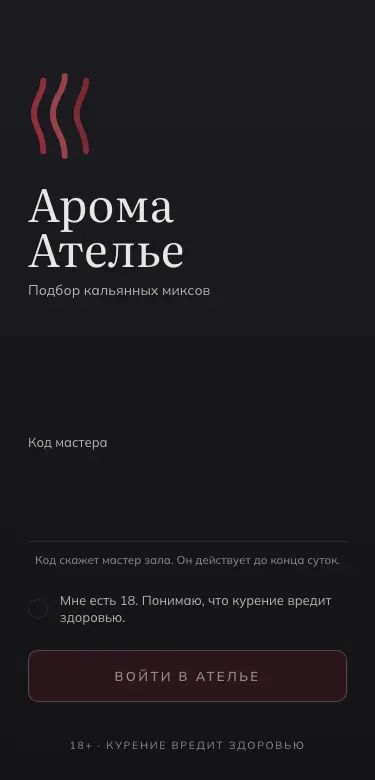
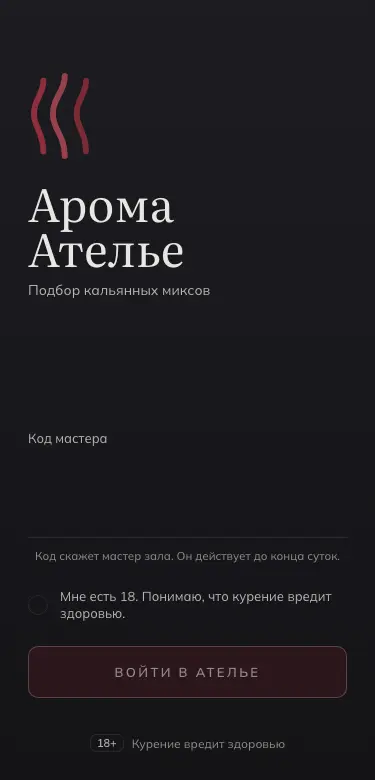
docs(design): мокап #348, раунд 2 — строка 18+, «Изменить вкусы», рилс-афиша
Замечания владельца к мокапу «было / стало»:

- Строка 18+ без middot и капса: бейдж «18+» и рядом «Курение вредит
  здоровью» обычным текстом. Слова предупреждения не менялись; в каноне
  у middot больше нет исключений.
- «Изменить вкусы» больше не занимает строку над героем Подбора. Два
  варианта на выбор: A — тихая ссылка в строке «Тоже подходят»
  (#shot=recs), B — значок SlidersHorizontal в шапке (#shot=recs-b).
- Рилс снова афиша, как в проде (#314): название и описание по центру
  сцены, внизу рейтинг, сердечко, состав и кнопки.

diff --git a/design/design_handoff_ui_deslop/guest-board.jsx b/design/design_handoff_ui_deslop/guest-board.jsx
@@ -48,7 +48,7 @@ function Nav({ value }) {
   );
 }
 
-function Topbar({ masterCard = false, children }) {
+function Topbar({ masterCard = false, editTastes = false, children }) {
   return (
     <header className="topbar">
       <div className="topbar-main-row">
@@ -56,6 +56,11 @@ function Topbar({ masterCard = false, children }) {
           <img className="brand-mark" src={MARK} alt="" aria-hidden />
           <span className="brand">Арома Ателье</span>
         </button>
+        {editTastes ? (
+          <button type="button" className="topbar-icon-btn" aria-label="Изменить вкусы" title="Изменить вкусы">
+            <window.Icon name="SlidersHorizontal" size={20} />
+          </button>
+        ) : null}
         {masterCard ? (
           <button type="button" className="topbar-icon-btn topbar-master-card" aria-label="Карточка для мастера" title="Карточка для мастера">
             <window.Icon name="ClipboardList" size={20} />
@@ -100,16 +105,16 @@ function OnboardingPhone({ step, initialProfiles, initialFlavors = [] }) {
   );
 }
 
-function RecsPhone({ sheetMix }) {
+function RecsPhone({ sheetMix, editTastes = 'section' }) {
   const [sheet, setSheet] = React.useState(sheetMix ? { mix: sheetMix, source: 'recommendations' } : null);
   const [rating, setRating] = React.useState(0);
   const [fav, setFav] = React.useState(false);
   return (
     <Phone>
-      <Topbar />
+      <Topbar editTastes={editTastes === 'topbar'} />
       <main className="content">
         <window.ReelStrip mixes={FEED} onOpen={noop} />
-        <window.RecommendationsScreen mixes={RECS} onOpen={(mix, source) => setSheet({ mix, source })} onChoose={noop} onOpenOnboarding={noop} onOpenCatalog={noop} onOpenMixer={noop} />
+        <window.RecommendationsScreen mixes={RECS} onOpen={(mix, source) => setSheet({ mix, source })} onChoose={noop} onOpenOnboarding={noop} onOpenCatalog={noop} onOpenMixer={noop} editTastes={editTastes} />
       </main>
       <Nav value="recommendations" />
       <window.MixSheet state={sheet} rating={rating} onRate={setRating} onClose={() => setSheet(null)} onChoose={noop} favorite={fav} onFavorite={() => setFav(!fav)} />
@@ -402,7 +407,8 @@ const SHOTS = [
       'Одно гало фона вместо трёх гало гейта.',
       'Подзаголовок «Подбор кальянных миксов» и подпись поля «Код мастера» обычным регистром.',
       'Подсказка двумя предложениями: «Код скажет мастер зала. Он действует до конца суток.»',
-      'У «Войти в Ателье» нет пульса. Юридический минимум и чекбокс 18+ не изменились.',
+      'У «Войти в Ателье» нет пульса. Чекбокс 18+ не изменился.',
+      'Строка 18+ без middot и капса: «18+» маленьким бейджем, рядом «Курение вредит здоровью» обычным текстом. Слова предупреждения те же.',
     ],
   },
   {
@@ -425,11 +431,19 @@ const SHOTS = [
   {
     id: 'recs', name: 'Подбор: герой и «Тоже подходят»', before: 'aroma-375-07-recommendations', render: () => <RecsPhone />,
     notes: [
-      'Нет надписи «Лучшее совпадение»: герой и так первый. «Изменить вкусы» осталась над ним.',
+      'Нет надписи «Лучшее совпадение»: герой и так первый.',
+      'Вариант A: «Изменить вкусы» — тихая ссылка в строке заголовка «Тоже подходят», отдельной строки над героем нет. Вариант B — следующая пара.',
       'Герой на ровной поверхности карточки, без подкраски гало профиля. Полоса профилей в герое осталась.',
       'Производитель в составе обычным регистром: «Darkside». Число выборов обычным текстом. У «Покурить» здесь нет пульса.',
       '«Тоже подходят» стал заголовком секции. В строках нет полосы профилей, вкусы через запятую.',
       'В конце строка «Собрать свой микс» вместо «Не нашли своё? Намиксуйте сами» с декоративным глифом.',
+    ],
+  },
+  {
+    id: 'recs-b', name: 'Подбор, вариант B: «Изменить вкусы» в шапке', before: 'aroma-375-07-recommendations', render: () => <RecsPhone editTastes="topbar" />,
+    notes: [
+      'Значок SlidersHorizontal в шапке только на Подборе, название в aria-label и title.',
+      'Компактнее варианта A, но без подписи действие менее заметно. Это шестой значок Lucide у гостя, его нужно добавить в ICONOGRAPHY.',
     ],
   },
   {
@@ -501,7 +515,8 @@ const SHOTS = [
     id: 'reel', name: 'Рилс', before: 'aroma-375-19-nav-Рилсы', render: () => <ReelPhone />,
     notes: [
       'Сцена не менялась: это согласованное исключение для рилсов.',
-      'Нет надписи профилей капсами над названием. Вкусы через запятую, у «★» нет числа оценок.',
+      'Афиша как в проде (#314): название и описание по центру сцены. В описании нет тире.',
+      'Нет надписи профилей капсами над названием. Производитель в составе обычным регистром, у «★» нет числа оценок.',
       '«Листайте вверх» обычным регистром и без прыгающей стрелки. «Подробнее» в sentence case, у «Покурить» нет пульса.',
     ],
   },

diff --git a/.claude/skills/aroma-atelier-design/ui_kits/aroma-guest/index.html b/.claude/skills/aroma-atelier-design/ui_kits/aroma-guest/index.html
@@ -25,6 +25,10 @@ body{font-family:var(--font-body);color:var(--text-primary);overflow-x:hidden;ba
 .aroma-ghost-sm{border:1px solid var(--line);background:rgba(40,40,48,.54);color:var(--text-0);border-radius:var(--r-guest-control);min-height:40px;font-family:var(--font-body);font-size:13px;cursor:pointer;padding:0 14px}
 /* Заголовок секции и подпись блока вместо надписей .aroma-caps */
 .aroma-section-title{margin:4px 0 0;font-family:var(--font-display);font-size:19px;font-weight:400;line-height:1.15;color:var(--text-0)}
+.aroma-section-row{display:flex;align-items:baseline;justify-content:space-between;gap:12px;margin-top:4px}
+.aroma-section-row .aroma-section-title{margin:0}
+.aroma-text-link{border:0;background:transparent;padding:6px 0;color:var(--text-1);font-family:var(--font-body);font-size:13px;text-decoration:underline;text-decoration-color:var(--line);text-underline-offset:3px;cursor:pointer}
+.aroma-text-link:hover,.aroma-text-link:focus-visible{color:var(--text-0)}
 .aroma-label{margin:0;font-family:var(--font-body);font-size:13px;font-weight:600;line-height:1.3;color:var(--text-1)}
 
 /* Тонкая шапка и нижняя панель (#168); шесть пунктов с «Рилсами» (#153): поля 4px, колонка около 61px */
@@ -65,18 +69,23 @@ body{font-family:var(--font-body);color:var(--text-primary);overflow-x:hidden;ba
 .reel-paused{position:absolute;left:50%;top:40%;z-index:2;width:56px;height:56px;margin:-28px 0 0 -28px;display:grid;place-items:center;border-radius:var(--r-pill);background:rgba(14,14,17,.55);border:1px solid var(--line);color:var(--text-0);pointer-events:none;backdrop-filter:blur(4px)}
 .reel-hint{position:absolute;left:0;right:0;bottom:calc(100% + 6px);display:flex;flex-direction:column;align-items:center;color:var(--text-1);font-size:12px;pointer-events:none}
 /* текст — HTML-слой поверх сцены: читается скринридером и не дёргается при паузе */
-.reel-dock{position:absolute;left:0;right:0;bottom:0;z-index:2;display:grid;gap:10px;padding:56px 20px 20px;background:linear-gradient(180deg,transparent 0%,rgba(14,14,17,.72) 26%,rgba(14,14,17,.94) 100%)}
+.reel-poster{position:absolute;inset:0;z-index:2;display:flex;flex-direction:column;pointer-events:none}
+.reel-poster button{pointer-events:auto}
+.reel-poster-center{flex:1 1 auto;min-height:0;display:grid;align-content:center;justify-items:center;gap:14px;padding:0 26px;text-align:center;background:radial-gradient(closest-side,rgba(14,14,17,.66) 0%,rgba(14,14,17,.34) 60%,transparent 100%)}
+.reel-poster-center>*{min-width:0;max-width:100%}
+.reel-dock{position:relative;display:grid;gap:10px;padding:40px 20px 20px;background:linear-gradient(180deg,transparent 0%,rgba(14,14,17,.62) 38%,rgba(14,14,17,.86) 100%)}
 .reel-dock>*{min-width:0}
+.reel-meta{display:flex;align-items:center;gap:8px}
+.reel-meta .heart-btn{margin:0 -8px 0 auto}
+.reel-name{margin:0;font-family:var(--font-display);font-size:34px;font-weight:400;line-height:1.35;color:var(--text-0);text-wrap:balance;text-shadow:0 2px 18px rgba(0,0,0,.55);display:-webkit-box;-webkit-line-clamp:3;-webkit-box-orient:vertical;overflow:hidden}
+.reel-desc{margin:0;max-width:28ch;font-family:var(--font-display);font-size:18px;font-style:italic;line-height:1.38;color:var(--text-0);text-wrap:pretty;text-shadow:0 1px 12px rgba(0,0,0,.6)}
+.reel-flavors{margin:0;font-size:14px;line-height:1.4;color:var(--text-1);text-shadow:0 1px 12px rgba(0,0,0,.6)}
 .reel-reveal>*{animation:reel-in var(--dur-sheet) var(--ease-out) both}
 .reel-reveal>*:nth-child(2){animation-delay:60ms}
 .reel-reveal>*:nth-child(3){animation-delay:120ms}
 .reel-reveal>*:nth-child(4){animation-delay:180ms}
 .reel-reveal>*:nth-child(n+5){animation-delay:240ms}
 @keyframes reel-in{from{opacity:0;transform:translateY(6px)}to{opacity:1;transform:none}}
-.reel-name-row{display:flex;align-items:flex-start;gap:8px}
-.reel-name-row .heart-btn{margin:-2px -8px 0 auto}
-.reel-name{margin:0;flex:1 1 auto;min-width:0;font-family:var(--font-display);font-size:28px;line-height:1.2;color:var(--text-0);text-wrap:balance;display:-webkit-box;-webkit-line-clamp:3;-webkit-box-orient:vertical;overflow:hidden}
-.reel-flavors{margin:0;font-size:14px;line-height:1.4;color:var(--text-1)}
 .reel-actions{display:grid;grid-template-columns:auto 1fr;gap:10px;margin-top:2px}
 
 /* Сцены стиля B — CSS-приближение мокапа; в приложении композиции Remotion. Штрих 1,2–1,4 в цвете профиля, без заливки */
@@ -123,7 +132,8 @@ body{font-family:var(--font-body);color:var(--text-primary);overflow-x:hidden;ba
 .aroma-access-age-dot{width:20px;height:20px;border-radius:999px;border:1px solid var(--line);background:transparent;display:inline-flex;align-items:center;justify-content:center;flex:0 0 auto;color:var(--primary-foreground);font-size:12px;font-weight:700;cursor:pointer;padding:0}
 .aroma-access-age-dot.on{border-color:var(--primary);background:var(--primary)}
 .aroma-access-age-text{font-size:13px;color:var(--text-1);line-height:1.3}
-.aroma-access-footer{margin:0;color:var(--text-2);font-size:10.5px;text-align:center;letter-spacing:.16em;text-transform:uppercase}
+.aroma-access-footer{margin:0;display:flex;align-items:center;justify-content:center;gap:8px;color:var(--text-2);font-size:12px}
+.aroma-age-badge{border:1px solid var(--line);border-radius:var(--r-guest-badge);padding:1px 6px;font-weight:600;font-size:11px;color:var(--text-1);font-variant-numeric:tabular-nums}
 
 /* Intro */
 .aroma-intro{flex:1 1 auto;min-height:100%;position:relative;display:flex;flex-direction:column;padding:20px 24px 0;overflow:hidden}

diff --git a/design/design_handoff_ui_deslop/mockups-guest.html b/design/design_handoff_ui_deslop/mockups-guest.html
@@ -29,6 +29,10 @@ body{font-family:var(--font-body);color:var(--text-primary);overflow-x:hidden;ba
 .aroma-ghost-sm{border:1px solid var(--line);background:rgba(40,40,48,.54);color:var(--text-0);border-radius:var(--r-guest-control);min-height:40px;font-family:var(--font-body);font-size:13px;cursor:pointer;padding:0 14px}
 /* Заголовок секции и подпись блока вместо надписей .aroma-caps */
 .aroma-section-title{margin:4px 0 0;font-family:var(--font-display);font-size:19px;font-weight:400;line-height:1.15;color:var(--text-0)}
+.aroma-section-row{display:flex;align-items:baseline;justify-content:space-between;gap:12px;margin-top:4px}
+.aroma-section-row .aroma-section-title{margin:0}
+.aroma-text-link{border:0;background:transparent;padding:6px 0;color:var(--text-1);font-family:var(--font-body);font-size:13px;text-decoration:underline;text-decoration-color:var(--line);text-underline-offset:3px;cursor:pointer}
+.aroma-text-link:hover,.aroma-text-link:focus-visible{color:var(--text-0)}
 .aroma-label{margin:0;font-family:var(--font-body);font-size:13px;font-weight:600;line-height:1.3;color:var(--text-1)}
 
 /* Тонкая шапка и нижняя панель (#168); шесть пунктов с «Рилсами» (#153): поля 4px, колонка около 61px */
@@ -69,18 +73,23 @@ body{font-family:var(--font-body);color:var(--text-primary);overflow-x:hidden;ba
 .reel-paused{position:absolute;left:50%;top:40%;z-index:2;width:56px;height:56px;margin:-28px 0 0 -28px;display:grid;place-items:center;border-radius:var(--r-pill);background:rgba(14,14,17,.55);border:1px solid var(--line);color:var(--text-0);pointer-events:none;backdrop-filter:blur(4px)}
 .reel-hint{position:absolute;left:0;right:0;bottom:calc(100% + 6px);display:flex;flex-direction:column;align-items:center;color:var(--text-1);font-size:12px;pointer-events:none}
 /* текст — HTML-слой поверх сцены: читается скринридером и не дёргается при паузе */
-.reel-dock{position:absolute;left:0;right:0;bottom:0;z-index:2;display:grid;gap:10px;padding:56px 20px 20px;background:linear-gradient(180deg,transparent 0%,rgba(14,14,17,.72) 26%,rgba(14,14,17,.94) 100%)}
+.reel-poster{position:absolute;inset:0;z-index:2;display:flex;flex-direction:column;pointer-events:none}
+.reel-poster button{pointer-events:auto}
+.reel-poster-center{flex:1 1 auto;min-height:0;display:grid;align-content:center;justify-items:center;gap:14px;padding:0 26px;text-align:center;background:radial-gradient(closest-side,rgba(14,14,17,.66) 0%,rgba(14,14,17,.34) 60%,transparent 100%)}
+.reel-poster-center>*{min-width:0;max-width:100%}
+.reel-dock{position:relative;display:grid;gap:10px;padding:40px 20px 20px;background:linear-gradient(180deg,transparent 0%,rgba(14,14,17,.62) 38%,rgba(14,14,17,.86) 100%)}
 .reel-dock>*{min-width:0}
+.reel-meta{display:flex;align-items:center;gap:8px}
+.reel-meta .heart-btn{margin:0 -8px 0 auto}
+.reel-name{margin:0;font-family:var(--font-display);font-size:34px;font-weight:400;line-height:1.35;color:var(--text-0);text-wrap:balance;text-shadow:0 2px 18px rgba(0,0,0,.55);display:-webkit-box;-webkit-line-clamp:3;-webkit-box-orient:vertical;overflow:hidden}
+.reel-desc{margin:0;max-width:28ch;font-family:var(--font-display);font-size:18px;font-style:italic;line-height:1.38;color:var(--text-0);text-wrap:pretty;text-shadow:0 1px 12px rgba(0,0,0,.6)}
+.reel-flavors{margin:0;font-size:14px;line-height:1.4;color:var(--text-1);text-shadow:0 1px 12px rgba(0,0,0,.6)}
 .reel-reveal>*{animation:reel-in var(--dur-sheet) var(--ease-out) both}
 .reel-reveal>*:nth-child(2){animation-delay:60ms}
 .reel-reveal>*:nth-child(3){animation-delay:120ms}
 .reel-reveal>*:nth-child(4){animation-delay:180ms}
 .reel-reveal>*:nth-child(n+5){animation-delay:240ms}
 @keyframes reel-in{from{opacity:0;transform:translateY(6px)}to{opacity:1;transform:none}}
-.reel-name-row{display:flex;align-items:flex-start;gap:8px}
-.reel-name-row .heart-btn{margin:-2px -8px 0 auto}
-.reel-name{margin:0;flex:1 1 auto;min-width:0;font-family:var(--font-display);font-size:28px;line-height:1.2;color:var(--text-0);text-wrap:balance;display:-webkit-box;-webkit-line-clamp:3;-webkit-box-orient:vertical;overflow:hidden}
-.reel-flavors{margin:0;font-size:14px;line-height:1.4;color:var(--text-1)}
 .reel-actions{display:grid;grid-template-columns:auto 1fr;gap:10px;margin-top:2px}
 
 /* Сцены стиля B — CSS-приближение мокапа; в приложении композиции Remotion. Штрих 1,2–1,4 в цвете профиля, без заливки */
@@ -127,7 +136,8 @@ body{font-family:var(--font-body);color:var(--text-primary);overflow-x:hidden;ba
 .aroma-access-age-dot{width:20px;height:20px;border-radius:999px;border:1px solid var(--line);background:transparent;display:inline-flex;align-items:center;justify-content:center;flex:0 0 auto;color:var(--primary-foreground);font-size:12px;font-weight:700;cursor:pointer;padding:0}
 .aroma-access-age-dot.on{border-color:var(--primary);background:var(--primary)}
 .aroma-access-age-text{font-size:13px;color:var(--text-1);line-height:1.3}
-.aroma-access-footer{margin:0;color:var(--text-2);font-size:10.5px;text-align:center;letter-spacing:.16em;text-transform:uppercase}
+.aroma-access-footer{margin:0;display:flex;align-items:center;justify-content:center;gap:8px;color:var(--text-2);font-size:12px}
+.aroma-age-badge{border:1px solid var(--line);border-radius:var(--r-guest-badge);padding:1px 6px;font-weight:600;font-size:11px;color:var(--text-1);font-variant-numeric:tabular-nums}
 
 /* Intro */
 .aroma-intro{flex:1 1 auto;min-height:100%;position:relative;display:flex;flex-direction:column;padding:20px 24px 0;overflow:hidden}

diff --git a/.claude/skills/aroma-atelier-design/ui_kits/aroma-guest/GuestScreens.jsx b/.claude/skills/aroma-atelier-design/ui_kits/aroma-guest/GuestScreens.jsx
@@ -41,7 +41,7 @@ function AccessScreen({ code, setCode, ageOk, setAgeOk, error, onSubmit, markSrc
           <AromaCTA type="submit" disabled={!ready}>Войти в Ателье</AromaCTA>
           {error ? <p className="guest-error">{error}</p> : null}
         </form>
-        <p className="aroma-access-footer">18+ · Курение вредит здоровью</p>
+        <p className="aroma-access-footer"><span className="aroma-age-badge">18+</span>Курение вредит здоровью</p>
       </div>
     </section>
   );
@@ -126,7 +126,8 @@ function MixerInvite({ onOpen, note }) {
 
 const choices = (n) => { const a = n % 10, b = n % 100; if (a === 1 && b !== 11) return 'выбор'; if (a >= 2 && a <= 4 && (b < 12 || b > 14)) return 'выбора'; return 'выборов'; };
 
-function RecommendationsScreen({ mixes, onOpen, onChoose, onOpenOnboarding, onOpenCatalog, onOpenMixer }) {
+// editTastes: 'section' — ссылка в строке «Тоже подходят» (вариант A), 'topbar' — значок в шапке рисует страница (вариант B).
+function RecommendationsScreen({ mixes, onOpen, onChoose, onOpenOnboarding, onOpenCatalog, onOpenMixer, editTastes = 'section' }) {
   if (!mixes.length) {
     return (
       <section className="aroma-recs-empty">
@@ -141,9 +142,6 @@ function RecommendationsScreen({ mixes, onOpen, onChoose, onOpenOnboarding, onOp
   const [hero, ...rest] = mixes;
   return (
     <section className="aroma-recs">
-      <div className="aroma-recs-head">
-        <button type="button" className="aroma-ghost-sm" onClick={onOpenOnboarding}>Изменить вкусы</button>
-      </div>
       <article className="aroma-recs-hero">
         <div className="aroma-recs-hero-head">
           <ProfileGlyph profiles={hero.flavorProfiles} size={64} />
@@ -160,9 +158,14 @@ function RecommendationsScreen({ mixes, onOpen, onChoose, onOpenOnboarding, onOp
         </div>
         <AromaCTA onClick={() => onChoose(hero, 'recommendations')}>Покурить</AromaCTA>
       </article>
+      {rest.length || editTastes === 'section' ? (
+        <div className="aroma-section-row">
+          {rest.length ? <h2 className="aroma-section-title">Тоже подходят</h2> : <span />}
+          {editTastes === 'section' ? <button type="button" className="aroma-text-link" onClick={onOpenOnboarding}>Изменить вкусы</button> : null}
+        </div>
+      ) : null}
       {rest.length ? (
         <>
-          <h2 className="aroma-section-title">Тоже подходят</h2>
           <div className="aroma-list">
             {rest.slice(0, 4).map((mix) => (
               <MixRow key={mix.id} name={mix.name} profiles={mix.flavorProfiles} flavors={mix.flavors} rating={guestRating(mix)} showGlyph={false} onClick={() => onOpen(mix, 'recommendations')} />
@@ -527,18 +530,23 @@ function Reel({ mix, index, total, active, paused, hint, favorite, onFavorite, o
       <Scene mix={mix} playing={active && !paused} />
       <button type="button" className="reel-tap" aria-label={paused ? 'Продолжить' : 'Пауза'} onClick={onTogglePause} />
       {paused ? <span className="reel-paused"><Icon name="Play" size={22} /></span> : null}
-      <div className={'reel-dock' + (active ? ' reel-reveal' : '')} key={active ? 'on' : 'off'}>
-        {hint ? <span className="reel-hint"><Icon name="ChevronUp" size={18} />Листайте вверх</span> : null}
-        <div className="reel-name-row">
+      {/* Афиша (#314): сцена — фон, название и описание по центру, внизу рейтинг, сердечко, состав и кнопки. */}
+      <div className={'reel-poster' + (active ? ' reel-reveal' : '')} key={active ? 'on' : 'off'}>
+        <div className="reel-poster-center">
           <h2 className="reel-name">{mix.name}</h2>
-          <HeartButton on={favorite} onClick={() => onFavorite(mix)} />
+          {mix.description ? <p className="reel-desc">{mix.description}</p> : <p className="reel-flavors">{mix.flavors.join(', ')}</p>}
         </div>
-        <p className="reel-flavors">{mix.flavors.join(', ')}</p>
-        {mix.ratingsCount ? <div><RatingPill rating={mix.avgRating} /></div> : null}
-        <CompositionStack components={mix.components} showBar={false} />
-        <div className="reel-actions">
-          <button type="button" className="aroma-ghost" onClick={() => onOpen(mix, 'reels')}>Подробнее</button>
-          <AromaCTA onClick={() => onChoose(mix, 'reels')}>Покурить</AromaCTA>
+        <div className="reel-dock">
+          {hint ? <span className="reel-hint"><Icon name="ChevronUp" size={18} />Листайте вверх</span> : null}
+          <div className="reel-meta">
+            {mix.ratingsCount ? <RatingPill rating={mix.avgRating} /> : null}
+            <HeartButton on={favorite} onClick={() => onFavorite(mix)} />
+          </div>
+          <CompositionStack components={mix.components} showBar={false} />
+          <div className="reel-actions">
+            <button type="button" className="aroma-ghost" onClick={() => onOpen(mix, 'reels')}>Подробнее</button>
+            <AromaCTA onClick={() => onChoose(mix, 'reels')}>Покурить</AromaCTA>
+          </div>
         </div>
       </div>
     </section>

diff --git a/design/design_handoff_ui_deslop/README.md b/design/design_handoff_ui_deslop/README.md
@@ -118,7 +118,8 @@ python3 -m http.server 8765 --bind 127.0.0.1
 | `gate` | Гейт 18+ и код | `aroma-375-01-gate` |
 | `onboarding-1` | Онбординг, шаг 1 | `aroma-375-05-onboarding-1-selected` |
 | `onboarding-2` | Онбординг, шаг 2 | `aroma-375-06-onboarding-2` |
-| `recs` | Подбор: герой и «Тоже подходят» | `aroma-375-07-recommendations` |
+| `recs` | Подбор: герой и «Тоже подходят», «Изменить вкусы» ссылкой (вариант A) | `aroma-375-07-recommendations` |
+| `recs-b` | Подбор, «Изменить вкусы» значком в шапке (вариант B) | `aroma-375-07-recommendations` |
 | `sheet` | Карточка микса | `aroma-375-08b-mix-card-full` |
 | `master` | Покажите мастеру | `aroma-375-09-after-smoke` |
 | `showcase` | Витрина | `aroma-375-10-showcase` |
@@ -141,32 +142,30 @@ python3 -m http.server 8765 --bind 127.0.0.1
    заголовками удалить, подписи секций и полей обычным регистром («Состав», «Ваша
    оценка», «Характер», «Вкусы», «Полки», «Код мастера»). Вторичные кнопки (№114),
    даты кабинета, производитель в составе (№70) и на карте табака обычным регистром.
-   UPPERCASE остаётся у `CTA` и у юридического минимума гейта.
+   UPPERCASE остаётся только у `CTA`.
 3. **Пульс.** `pulse` только у «Покурить» в карточке микса (№115).
 4. **Тексты экранов** по таблице:
-   - гейт: «Подбор кальянных миксов», «Код скажет мастер зала. Он действует до конца суток.» (№3–5);
+   - гейт: «Подбор кальянных миксов», «Код скажет мастер зала. Он действует до конца суток.» (№3–5); строка 18+ — бейдж «18+» и рядом «Курение вредит здоровью» обычным текстом, без middot и капса (№1);
    - онбординг: без надписи с номером шага, «Можно выбрать несколько.», «Можно пропустить. Бледные вкусы не встречаются в миксах с выбранными профилями.», без блока «Сейчас выбрано», «Подходят N миксов» (№12–13, №17, №20–21);
-   - Подбор: без надписи над героем, число выборов обычным текстом, «Тоже подходят» заголовком h2, строки без `SignatureBar`, приглашение «Собрать свой микс» с подписью «Из табаков, которые сегодня есть на полках.» без глифа (№28, №31–35);
+   - Подбор: без надписи над героем, «Изменить вкусы» не отдельной строкой над героем, а по выбранному варианту — ссылкой в строке «Тоже подходят» (A) или значком в шапке (B), число выборов обычным текстом, «Тоже подходят» заголовком h2, строки без `SignatureBar`, приглашение «Собрать свой микс» с подписью «Из табаков, которые сегодня есть на полках.» без глифа (№28, №31–35);
    - Витрина: приглашение одной строкой «Собрать свой микс» (№56); подборка без крошки и счётчика (№54);
    - Каталог: «N миксов», пусто «Ничего не найдено. Уберите один из фильтров.» и «Убрать: клубника»; при одном поиске «Ничего не найдено. Измените запрос.» и «Очистить поиск»; над пустой выдачей счётчика нет; чипы шторки без чисел (№60–64);
    - карточка микса: без надписи источника (№68), «Состав», «Ваша оценка»;
    - «Покажите мастеру»: строка «Покажите мастеру» рядом с «Готово», профили через запятую, без подписи «Состав» (№75–76);
    - Миксер: «Ход 1 из 3», «Основа, 40–70%», одна подсказка у пустой чаши, «21 табак из вашего подбора», подпись «В миксах мастеров не встречается» вместо «—», без пары «Раскрытие / Ваш микс», подписи «Гармония», «Название», «Доли», вердикт «Необычное сочетание», легенда «Основа: Starline Мятная пастилка, 55%», «Похожих миксов в каталоге нет.» (№80–87, №91–95);
    - кабинет без входа: заголовок «Кабинет», «Сохраним историю выборов и избранное. Подбор будет их учитывать.», «Кабинет работает только в этом заведении.», без глифа (№97–99, №112);
-   - рилс: без строки профилей над названием, вкусы через запятую, «Листайте вверх» без анимации, «★» без числа оценок (№46–47, №53).
+   - рилс: афиша как сейчас — название и описание по центру сцены (#314), в описании без тире; без строки профилей над названием, вкусы через запятую там, где нет описания, «Листайте вверх» без анимации, «★» без числа оценок (№46–47, №53).
 5. **Middot и тире** во всех строках UI заменить по столбцу «Предложение замены».
 
 ### Что сознательно не меняли
 
-- Юридический минимум гейта «18+ · Курение вредит здоровью» и текст чекбокса 18+.
+- Слова юридического минимума и текст чекбокса 18+. Middot и капс из строки 18+ убраны по замечанию владельца: «18+» стал бейджем.
 - `ProfileGlyph` там, где он показывает профили конкретного микса или табака: герой,
   лист, «Покажите мастеру», строки подборки и Каталога, постеры Витрины.
 - `SignatureBar` в герое, листе и на «Покажите мастеру», как разрешает канон.
 - Подкраску постеров Витрины цветами профилей и значки типа полки: это данные и
   ICONOGRAPHY #175.
 - Сцены рилсов и кольцо кружков полосы над Подбором: исключение #153.
-- «Изменить вкусы» над героем Подбора: в проде она стоит рядом с надписью, которую
-  мы убрали. Место на усмотрение реализации.
 - Тексты из backend (карточки знакомства, описания подборок): решение №17. В ките
   описания подборок переписаны, в приложении они приходят из `apps/backend`.
 - Знакомство: в ките оно из четырёх карточек и не совпадает с одним экраном прода,

diff --git a/.claude/skills/aroma-atelier-design/readme.md b/.claude/skills/aroma-atelier-design/readme.md
@@ -58,7 +58,7 @@
 
 **Пунктуация.**
 - У кнопок и подписей точки нет. У предложений — есть.
-- Перечисление — через запятую: «земляника, лесные ягоды, чёрный чай». Middot «·» в текстах интерфейса не используется. Единственное исключение — юридический минимум гейта, он остаётся дословно.
+- Перечисление — через запятую: «земляника, лесные ягоды, чёрный чай». Middot «·» в текстах интерфейса не используется, исключений нет.
 - Тире не соединяет две части фразы: «X — Y» пишется двумя предложениями или через запятую. Это правило для кнопок, тостов, подсказок, ошибок и подзаголовков. Прочерк «—» в пустой ячейке таблицы остаётся: это значение, а не конструкция.
 - Многоточие — только в состояниях процесса: «Проверяем код…», «Загружаем профили…». В кнопках и пунктах меню многоточия нет: «Указать остаток», а не «Осталось…».
 - Кавычки — «ёлочки». В них берутся имена миксов и вердикты внутри фразы: «Три из четырёх последних выборов: «Морозная ягода».». Названия разделов, вкладок и кнопок интерфейса в кавычки не берутся: «Отметьте табак как закончившийся», а не «Нажмите «Закончился»».
@@ -78,7 +78,7 @@
 
 **Эмодзи не используются.** Ни в интерфейсе, ни в текстах. Единственные не-иконочные символы: `★` в рейтинге, `←` в гостевой навигации, `✓` в чекбоксе 18+, `⌘K` в подсказке палитры.
 
-**Юридический минимум** всегда на гостевом гейте, дословно: `18+ · Курение вредит здоровью` и чекбокс «Мне есть 18. Понимаю, что курение вредит здоровью.»
+**Юридический минимум** всегда на гостевом гейте: бейдж «18+» и рядом обычным текстом «Курение вредит здоровью», ниже чекбокс «Мне есть 18. Понимаю, что курение вредит здоровью.» Слова предупреждения и чекбокса не меняются.
 
 ### Признаки генерации — не использовать
 
